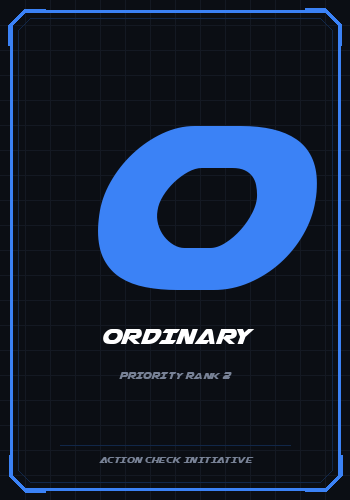
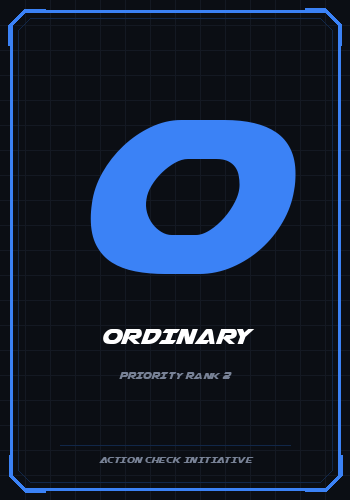
style: adjust optical sizes and horizontal centering for Airstrike cards

Changed region(s): [[0.2571, 0.24, 0.9143, 0.6], [0.4, 0.3, 0.7429, 0.51]]

diff --git a/generate_cards.py b/generate_cards.py
@@ -76,11 +76,22 @@ def draw_sci_fi_card(phase_name, priority, color_hex):
     # Bottom-Right
     draw.line([(w-10, h-45), (w-10, h-25), (w-25, h-10), (w-45, h-10)], fill=accent_color, width=4)
     
-    # Huge Central Letter (A, G, O, M) - Pointy and Massive in Airstrike!
+    # Huge Central Letter (A, G, O, M)
     central_letter = phase_name[0].upper()
-    font_large_letter = get_font(310)
-    # Airstrike has wide characters, middle centering is perfect
-    draw.text((w/2, h/2 - 50), central_letter, fill=accent_color, font=font_large_letter, anchor="mm")
+    
+    # Specs for perfect optical centering and sizing of slanted Airstrike font
+    specs = {
+        'A': {'size': 310, 'dx': -10, 'dy': -10},
+        'G': {'size': 290, 'dx': -12, 'dy': -10},
+        'O': {'size': 290, 'dx': -12, 'dy': -10},
+        'M': {'size': 240, 'dx': -15, 'dy': -5}
+    }
+    
+    spec = specs.get(central_letter, {'size': 310, 'dx': 0, 'dy': -10})
+    font_large_letter = get_font(spec['size'])
+    
+    # Draw letter with optical offset to counter rightward slant
+    draw.text((w/2 + spec['dx'], h/2 - 50 + spec['dy']), central_letter, fill=accent_color, font=font_large_letter, anchor="mm")
     
     # Full Phase Name below letter
     font_phase = get_font(28)
